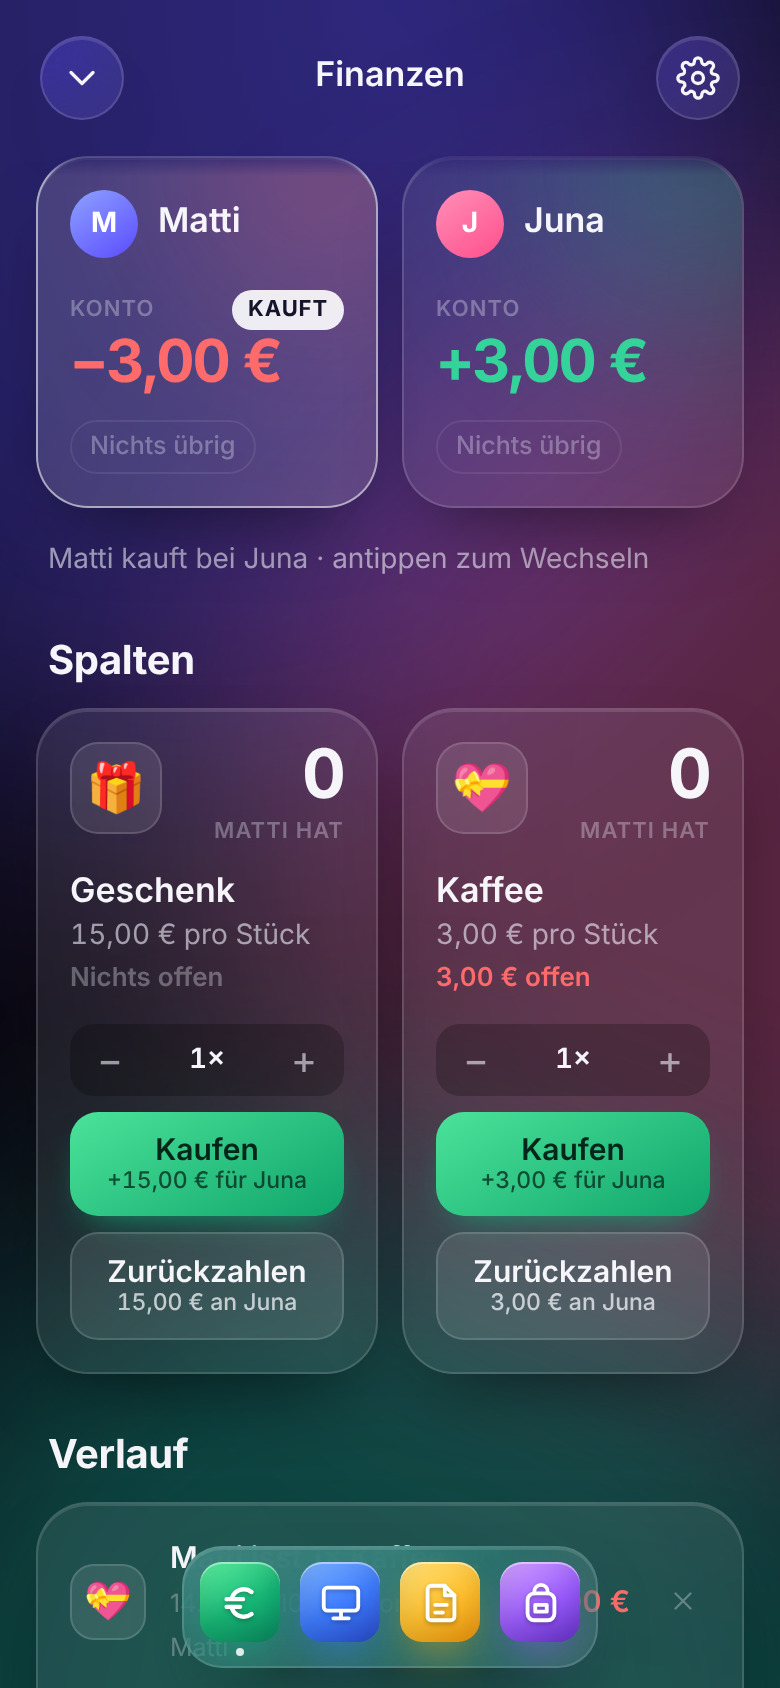
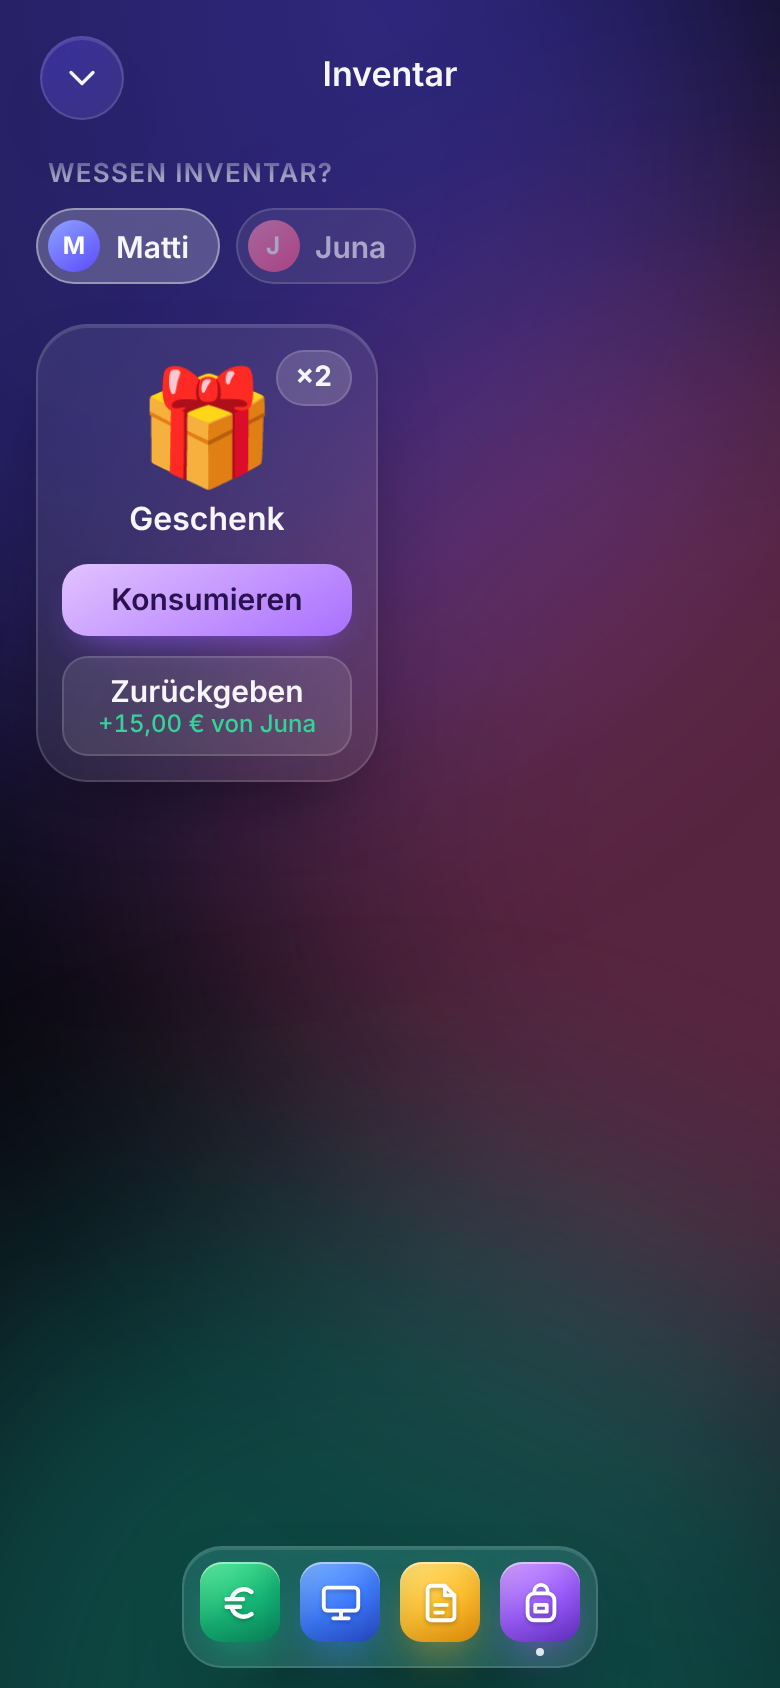
Neues Rechenmodell: Kaufen bucht sofort, Konsumieren ohne Geldwirkung, Zurückgeben erstattet
Claude-Session: https://claude.ai/code/session_01HP4ZGYUmZQyzGZFQVh1CYh

diff --git a/app.js b/app.js
@@ -14,7 +14,8 @@
     seller: 'partner', // bei wem gekauft wird
     items: [{ id: uid(), name: 'Geschenk', price: 15, emoji: '🎁' }],
     notes: [],
-    tx: [] // { id, itemId, from (wer handelt), to (bei wem), type: 'buy' | 'eat' | 'pay', qty, price, ts }
+    v: 3,
+    tx: [] // { id, itemId, from (wer handelt), to (bei wem), type: 'buy' | 'eat' | 'ret', qty, price, ts }
   });
 
   let state;
@@ -26,6 +27,7 @@
     state.buyer = state.payer === 'partner' ? 'partner' : 'me';
     delete state.me; delete state.partner; delete state.payer;
   }
+  if (state.v !== 3) { state.tx = []; state.v = 3; } // Buchungen aus früheren Rechenmodellen verwerfen
   state.tx.forEach((t) => { if (!t.to) t.to = t.from === 'me' ? 'partner' : 'me'; });
   if (!Array.isArray(state.notes)) state.notes = []; // { id, text, ts }
   const save = () => { try { localStorage.setItem(KEY, JSON.stringify(state)); } catch { /* privat/voll */ } };
@@ -60,18 +62,12 @@
   const buyer = () => (person(state.buyer) ? state.buyer : state.people[0].id);
   const seller = () => { const b = buyer(); return person(state.seller) && state.seller !== b ? state.seller : state.people.find((p) => p.id !== b).id; };
   const sumTx = (itemId, from, type, to) => state.tx.reduce((sum, t) => sum + (t.itemId === itemId && t.from === from && t.type === type && (!to || t.to === to) ? t.qty : 0), 0);
-  // Stücke, die eine Person gekauft und noch nicht aufgegessen hat (egal bei wem)
-  const held = (itemId, key) => sumTx(itemId, key, 'buy') - sumTx(itemId, key, 'eat');
-  // Stücke, die jemand bei einer Person gekauft, aber noch nicht bezahlt hat (negativ = zu viel bezahlt)
-  const unpaid = (itemId, from, to) => sumTx(itemId, from, 'buy', to) - sumTx(itemId, from, 'pay', to);
-  const pairDebt = (from, to) => state.items.reduce((sum, it) => sum + unpaid(it.id, from, to) * it.price, 0);
-  // Kontostand einer Person: was andere bei ihr gekauft und noch nicht zurückgezahlt haben,
-  // minus dem Wert dessen, was sie selbst konsumiert hat, minus dem, was sie zurückgezahlt hat
-  const balance = (key) => round2(
-    state.people.reduce((sum, p) => sum + (p.id === key ? 0 : pairDebt(p.id, key)), 0)
-    + state.items.reduce((sum, it) => sum - (sumTx(it.id, key, 'pay') + sumTx(it.id, key, 'eat')) * it.price, 0));
-  // Geld, das a an b schuldet
-  const owes = (a, b) => round2(Math.max(0, pairDebt(a, b)) + Math.max(0, -pairDebt(b, a)));
+  // Stücke im Inventar einer Person: gekauft, weder konsumiert noch zurückgegeben (optional nur von einem Verkäufer)
+  const held = (itemId, key, from) => sumTx(itemId, key, 'buy', from) - sumTx(itemId, key, 'eat', from) - sumTx(itemId, key, 'ret', from);
+  // Stücke, für die a an b bezahlt hat (Käufe minus Rückgaben)
+  const paidUnits = (itemId, a, b) => sumTx(itemId, a, 'buy', b) - sumTx(itemId, a, 'ret', b);
+  // Kontostand: Kaufen = Käufer −Preis, Verkäufer +Preis. Zurückgeben dreht das um. Konsumieren ändert nichts.
+  const balance = (key) => round2(state.items.reduce((sum, it) => sum + it.price * state.people.reduce((n, p) => n + (p.id === key ? 0 : paidUnits(it.id, p.id, key) - paidUnits(it.id, key, p.id)), 0), 0));
   const amount = (b) => (b > 0 ? '+' : '') + money(b);
   const tone = (b) => (b > 0 ? 'pos' : b < 0 ? 'neg' : 'zero');
 
@@ -85,16 +81,11 @@
     $('widget').innerHTML = `
       <div class="w-top"><span class="mini">${EURO_SVG}</span>Finanzen</div>
       <div class="w-rows">${state.people.map((p) => {
-        const debts = state.people.filter((o) => o.id !== p.id && owes(p.id, o.id) > 0)
-          .map((o) => `<span class="chip neg"><i>${esc(who(o.id))}</i> ${money(owes(p.id, o.id))}</span>`).join('');
         const chips = heldChips(p.id);
         return `
-        <div class="w-person">
-          <div class="w-row">
-            <span><b>${esc(who(p.id))}</b> ${debts ? 'schuldet' : 'schuldet nichts'}</span>
-            ${debts ? `<div class="chips">${debts}</div>` : ''}
-          </div>
-          ${chips ? `<div class="w-row sub"><span>hat noch</span><div class="chips">${chips}</div></div>` : ''}
+        <div class="w-row">
+          <span><b>${esc(who(p.id))}</b> ${chips ? 'hat' : 'hat nichts'}</span>
+          ${chips ? `<div class="chips">${chips}</div>` : ''}
         </div>`;
       }).join('')}
       </div>`;
@@ -126,7 +117,7 @@
   function renderItems() {
     const p = buyer(), sl = seller(), receiver = esc(who(sl));
     $('items').innerHTML = state.items.map((it) => {
-      const c = held(it.id, p), q = qty[it.id] || 1, open = round2(unpaid(it.id, p, sl) * it.price);
+      const c = held(it.id, p), q = qty[it.id] || 1;
       return `
       <article class="card glass" data-id="${it.id}">
         <div class="card-top">
@@ -135,14 +126,12 @@
         </div>
         <h3>${esc(it.name || 'Ohne Namen')}</h3>
         <div class="price">${money(it.price)} pro Stück</div>
-        <div class="open ${open > 0 ? 'neg' : open < 0 ? 'pos' : ''}">${open > 0 ? `${money(open)} offen` : open < 0 ? `${money(-open)} zu viel bezahlt` : 'Nichts offen'}</div>
         <div class="stepper">
           <button data-action="qty" data-d="-1" aria-label="Weniger">−</button>
           <span>${q}×</span>
           <button data-action="qty" data-d="1" aria-label="Mehr">+</button>
         </div>
-        <button class="btn pay" data-action="buy">Kaufen<small>+${money(it.price * q)} für ${receiver}</small></button>
-        <button class="btn use" data-action="pay">Zurückzahlen<small>−${money(it.price * q)} bei ${esc(who(p))}</small></button>
+        <button class="btn pay" data-action="buy">Kaufen<small>${money(it.price * q)} an ${receiver}</small></button>
       </article>`;
     }).join('') || '<div class="empty wide">Noch keine Spalte. Lege im Zahnrad eine an.</div>';
   }
@@ -154,20 +143,20 @@
       const it = byId[t.itemId], P = esc(who(t.from)), R = esc(who(t.to)), sum = money(t.qty * t.price);
       const text = t.type === 'buy' ? `${P} kauft ${t.qty}× ${esc(it.name)} bei ${R}`
         : t.type === 'eat' ? `${P} konsumiert ${t.qty}× ${esc(it.name)}`
-        : `${P} zahlt ${R} ${sum} zurück`;
-      const val = `<div class="val ${t.type === 'buy' ? 'pos' : 'neg'}">${t.type === 'buy' ? '+' : '−'}${sum}</div>`;
+        : `${P} gibt ${R} ${t.qty}× ${esc(it.name)} zurück`;
+      const val = t.type === 'eat' ? '' : `<div class="val ${t.type === 'ret' ? 'pos' : 'neg'}">${t.type === 'ret' ? '+' : '−'}${sum}</div>`;
       return `
       <div class="row" data-tx="${t.id}">
         <div class="emoji">${esc(it.emoji)}</div>
         <div class="txt">
           <b>${text}</b>
-          <small>${fmt.format(new Date(t.ts))}${t.type === 'pay' ? '' : ` · Konto ${t.type === 'eat' ? P : R}`}</small>
+          <small>${fmt.format(new Date(t.ts))}</small>
         </div>
         ${val}
         <button class="x" data-action="undo" aria-label="Eintrag löschen">${X_SVG}</button>
       </div>`;
     }).join('');
-    $('history').innerHTML = rows || `<div class="empty">Noch keine Einträge.<br>Wähle oben, wer kauft, und tippe auf „Kaufen“. Konsumiert wird im Inventar.</div>`;
+    $('history').innerHTML = rows || `<div class="empty">Noch keine Einträge.<br>Wähle oben, wer kauft, und tippe auf „Kaufen“. Konsumieren und Zurückgeben geht im Inventar.</div>`;
   }
 
   function renderSettings() {
@@ -271,13 +260,16 @@
   const invOwner = () => (person(invPerson) ? invPerson : buyer());
   function renderInventory() {
     const o = invOwner();
-    const slots = state.items.filter((it) => held(it.id, o) > 0).map((it) => `
-        <button class="slot glass" data-action="inv-eat" data-id="${it.id}" aria-label="${esc(it.name)} konsumieren">
-          <span class="badge">×${held(it.id, o)}</span>
+    const many = state.people.length > 2;
+    const slots = state.items.map((it) => state.people.filter((sl) => sl.id !== o && held(it.id, o, sl.id) > 0).map((sl) => `
+        <article class="slot glass" data-id="${it.id}" data-seller="${sl.id}">
+          <span class="badge">×${held(it.id, o, sl.id)}</span>
           <span class="big">${esc(it.emoji)}</span>
           <b>${esc(it.name || 'Ohne Namen')}</b>
-          <span class="eat">Konsumieren <small>−${money(it.price)}</small></span>
-        </button>`).join('');
+          ${many ? `<small class="from">von ${esc(who(sl.id))}</small>` : ''}
+          <button class="eat" data-action="inv-eat">Konsumieren</button>
+          <button class="back" data-action="inv-ret">Zurückgeben<small>+${money(it.price)} von ${esc(who(sl.id))}</small></button>
+        </article>`).join('')).join('');
     $('inv-body').innerHTML = `
       <div class="seg-label">Wessen Inventar?</div>
       <div class="pick">${state.people.map((p) => `
@@ -287,7 +279,7 @@
       <div class="soon">
         <span class="app-icon inv big">${BAG_SVG}</span>
         <h2>Inventar ist leer</h2>
-        <p>${esc(who(o))} hat gerade nichts zum Konsumieren.<br>Gekauftes landet automatisch hier.</p>
+        <p>${esc(who(o))} hat gerade nichts im Inventar.<br>Gekauftes landet automatisch hier.</p>
       </div>`}`;
   }
 
@@ -316,6 +308,18 @@
     if (navigator.vibrate) navigator.vibrate(10);
   }
 
+  // Ein Stück aus dem Inventar konsumieren ('eat') oder dem Verkäufer zurückgeben ('ret')
+  function invUse(el, id, type) {
+    const slot = el.closest('.slot'), sl = slot.dataset.seller, o = invOwner(), it = state.items.find((i) => i.id === id);
+    if (!it || held(id, o, sl) < 1 || slot.classList.contains('eating')) return;
+    slot.classList.add('eating', type);
+    if (navigator.vibrate) navigator.vibrate(10);
+    setTimeout(() => {
+      state.tx.push({ id: uid(), itemId: id, from: o, to: sl, type, qty: 1, price: it.price, ts: Date.now() });
+      commit();
+    }, 260);
+  }
+
   const actions = {
     open: () => setView('manager'),
     close: () => setView('home'),
@@ -342,17 +346,8 @@
     qty: (el, id) => { qty[id] = Math.min(99, Math.max(1, (qty[id] || 1) + Number(el.dataset.d))); renderItems(); },
     buy: (el, id) => book(id, 'buy'),
     'inv-person': (el) => { invPerson = el.dataset.k; renderInventory(); },
-    'inv-eat': (el, id) => {
-      const o = invOwner(), it = state.items.find((i) => i.id === id);
-      if (!it || held(id, o) < 1 || el.classList.contains('eating')) return;
-      el.classList.add('eating');
-      if (navigator.vibrate) navigator.vibrate(10);
-      setTimeout(() => {
-        state.tx.push({ id: uid(), itemId: id, from: o, to: o, type: 'eat', qty: 1, price: it.price, ts: Date.now() });
-        commit();
-      }, 260);
-    },
-    pay: (el, id) => book(id, 'pay'),
+    'inv-eat': (el, id) => invUse(el, id, 'eat'),
+    'inv-ret': (el, id) => invUse(el, id, 'ret'),
     undo: (el) => { const id = el.closest('[data-tx]').dataset.tx; state.tx = state.tx.filter((t) => t.id !== id); commit(); },
     'note-new': () => { const n = { id: uid(), text: '', ts: Date.now() }; state.notes.push(n); openNote(n.id, true); },
     'note-open': (el) => openNote(el.dataset.note),

diff --git a/styles.css b/styles.css
@@ -322,3 +322,15 @@ button.acct:active { transform: scale(.97); }
 
 .slot .eat { line-height: 1.2; }
 .slot .eat small { display: block; font-size: 12px; }
+
+/* ---------- Inventar: Konsumieren oder Zurückgeben ---------- */
+.slot:active { transform: none; }
+.slot .from { font-size: 13px; color: var(--muted); }
+.slot button.eat { transition: transform .18s var(--ease), filter .2s; }
+.slot .back { margin-top: 8px; width: 100%; padding: 8px 6px; border-radius: 13px; font-weight: 600; font-size: 15px; line-height: 1.2; background: rgba(255, 255, 255, .1); border: 1px solid var(--stroke); transition: transform .18s var(--ease), filter .2s; }
+.slot .back small { display: block; font-size: 12px; font-weight: 500; color: var(--green); font-variant-numeric: tabular-nums; }
+.slot .eat:active, .slot .back:active { transform: scale(.95); filter: brightness(1.15); }
+.slot.eating.ret .big { transform: translateY(-40px) scale(.6); opacity: 0; }
+.widget .w-rows { gap: 10px; }
+
+.row .txt b { white-space: normal; line-height: 1.25; }
